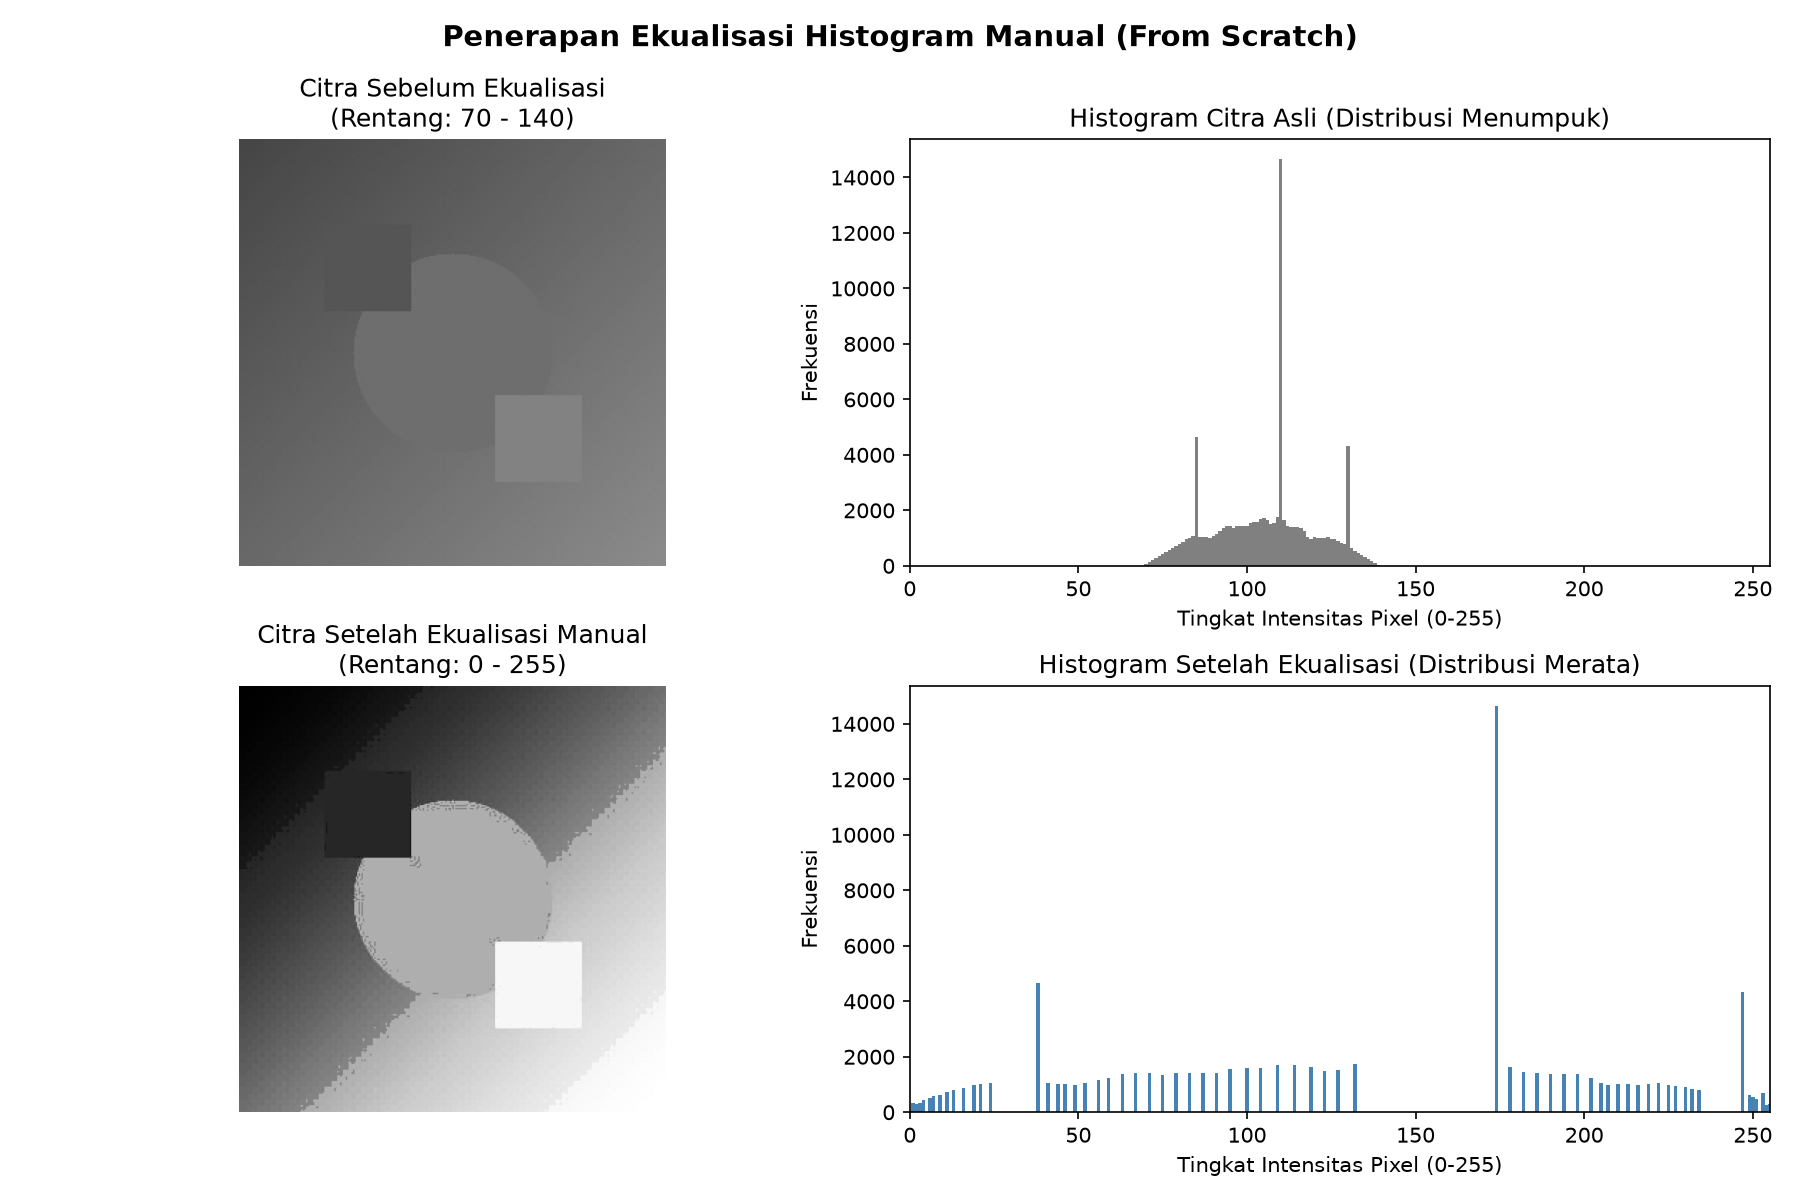
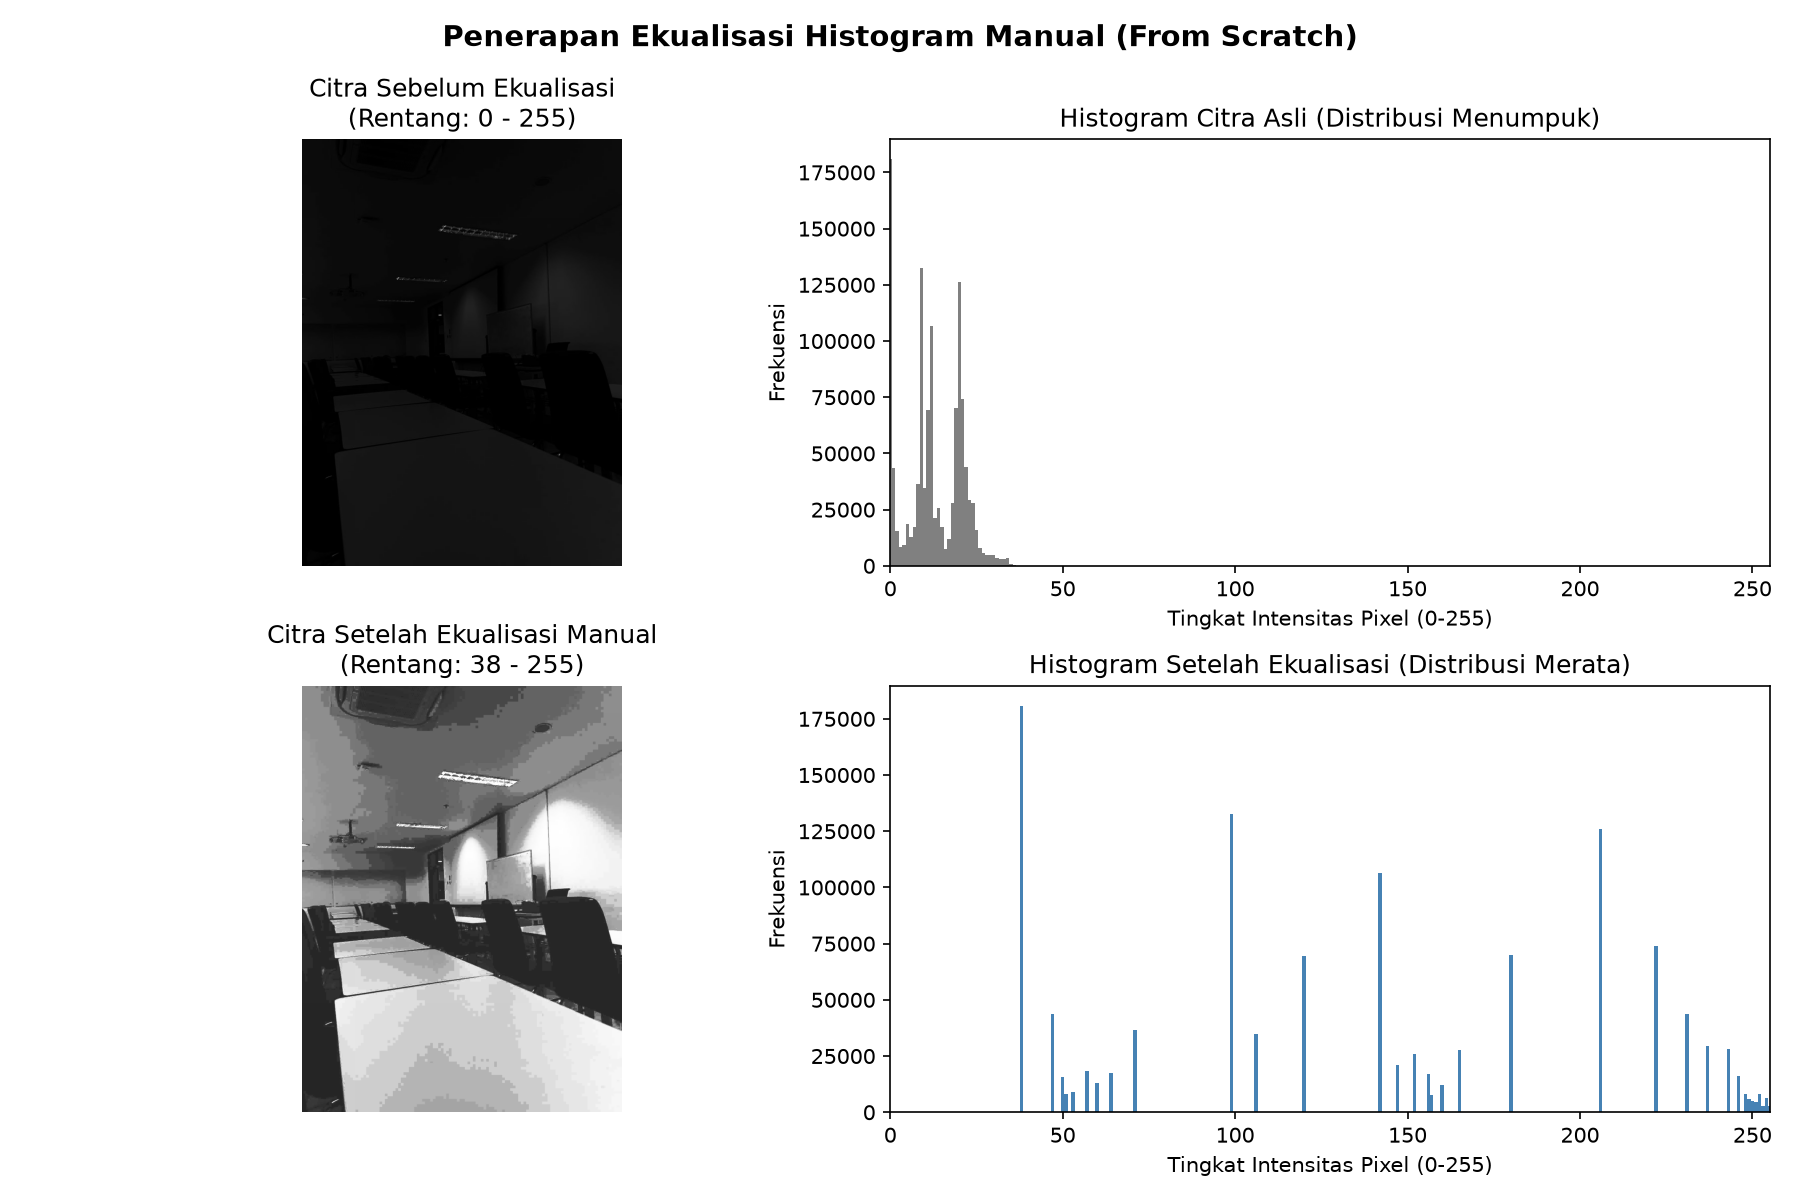
update(tugas-2): perbarui foto sampel ruangan gelap, hasil transformasi & ekualisasi histogram, serta analisis laporan

diff --git a/2-ti-eq/README.md b/2-ti-eq/README.md
@@ -52,10 +52,10 @@ Tahapan perhitungan algoritma ekualisasi histogram manual:
 
 ## 🔬 Hasil Eksperimen
 
-### 1. Citra Masukan Kontras Rendah (Input)
-Citra yang digunakan memiliki rentang nilai intensitas yang sempit (kontras rendah di rentang $70 - 140$):
+### 1. Citra Masukan Ruangan Gelap (Input)
+Citra yang digunakan adalah foto ruangan nyata dalam kondisi gelap (*underexposed / low-light room*, resolusi $960 \times 1280$ piksel) dengan rata-rata intensitas sangat rendah ($\approx 12.6$ dari skala $255$):
 
-![Citra Kontras Rendah](low_contrast_sample.jpg)
+![Citra Ruangan Gelap](low_contrast_sample.jpg)
 
 ---
 
@@ -63,6 +63,12 @@ Citra yang digunakan memiliki rentang nilai intensitas yang sempit (kontras rend
 Hasil perbandingan 6 mode transformasi intensitas yang dihitung secara manual:
 
 ![Hasil Transformasi Intensitas](hasil_transformasi_intensitas.png)
+
+> **Analisis Transformasi Intensitas pada Ruangan Gelap:**
+> - **Log Transformation & Gamma ($\gamma = 0.5$):** Sangat efektif mengangkat intensitas piksel-piksel gelap sehingga objek di dalam ruangan yang tadinya tidak terlihat mulai tampak jelas.
+> - **Gamma ($\gamma = 2.0$):** Mempertegas area gelap/bayangan, membuat area yang minim cahaya semakin pekat.
+> - **Image Negative:** Membalik nilai piksel ($255 - r$), mengubah latar belakang yang gelap gulita menjadi terang sehingga kontur objek tampak seperti citra rontgen.
+> - **Contrast Stretching:** Meregangkan rentang dinamis intensitas piksel ke seluruh rentang $0 - 255$.
 
 ---
 
@@ -72,8 +78,9 @@ Perbandingan antara citra sebelum vs sesudah ekualisasi beserta grafik distribus
 ![Hasil Ekualisasi Histogram](hasil_ekualisasi_histogram.png)
 
 > **Analisis Grafik Histogram:**
-> - **Sebelum Ekualisasi (Histogram Abu-abu):** Distribusi frekuensi piksel menumpuk sempit di bagian tengah ($70 - 140$), membuat objek tampak samar dan kontrasnya buruk.
-> - **Setelah Ekualisasi Manual (Histogram Biru):** Distribusi frekuensi piksel telah diratakan secara linier ke seluruh skala penuh dari $0$ hingga $255$. Efek visualnya, objek dan latar belakang terlihat kontras, tegas, dan memiliki rentang dinamis yang optimal.
+> - **Sebelum Ekualisasi (Histogram Abu-abu):** Distribusi frekuensi piksel menumpuk ekstrem di area paling kiri (intensitas mendekati 0, gelap gulita). Mata manusia hampir tidak dapat membedakan objek di dalam ruangan karena minimnya perbedaan kontras antarpiksel.
+> - **Setelah Ekualisasi Manual (Histogram Biru):** Melalui perhitungan fungsi distribusi kumulatif (CDF) manual, probabilitas intensitas dipetakan ulang dan diratakan ke seluruh rentang dinamis $0 - 255$.
+> - **Dampak Visual:** Objek, kontur dinding, dan perabotan yang semula tersembunyi dalam kegelapan langsung terungkap dengan jelas dan tegas tanpa menggunakan fungsi bawaan `cv2.equalizeHist`.
 
 ---
 
